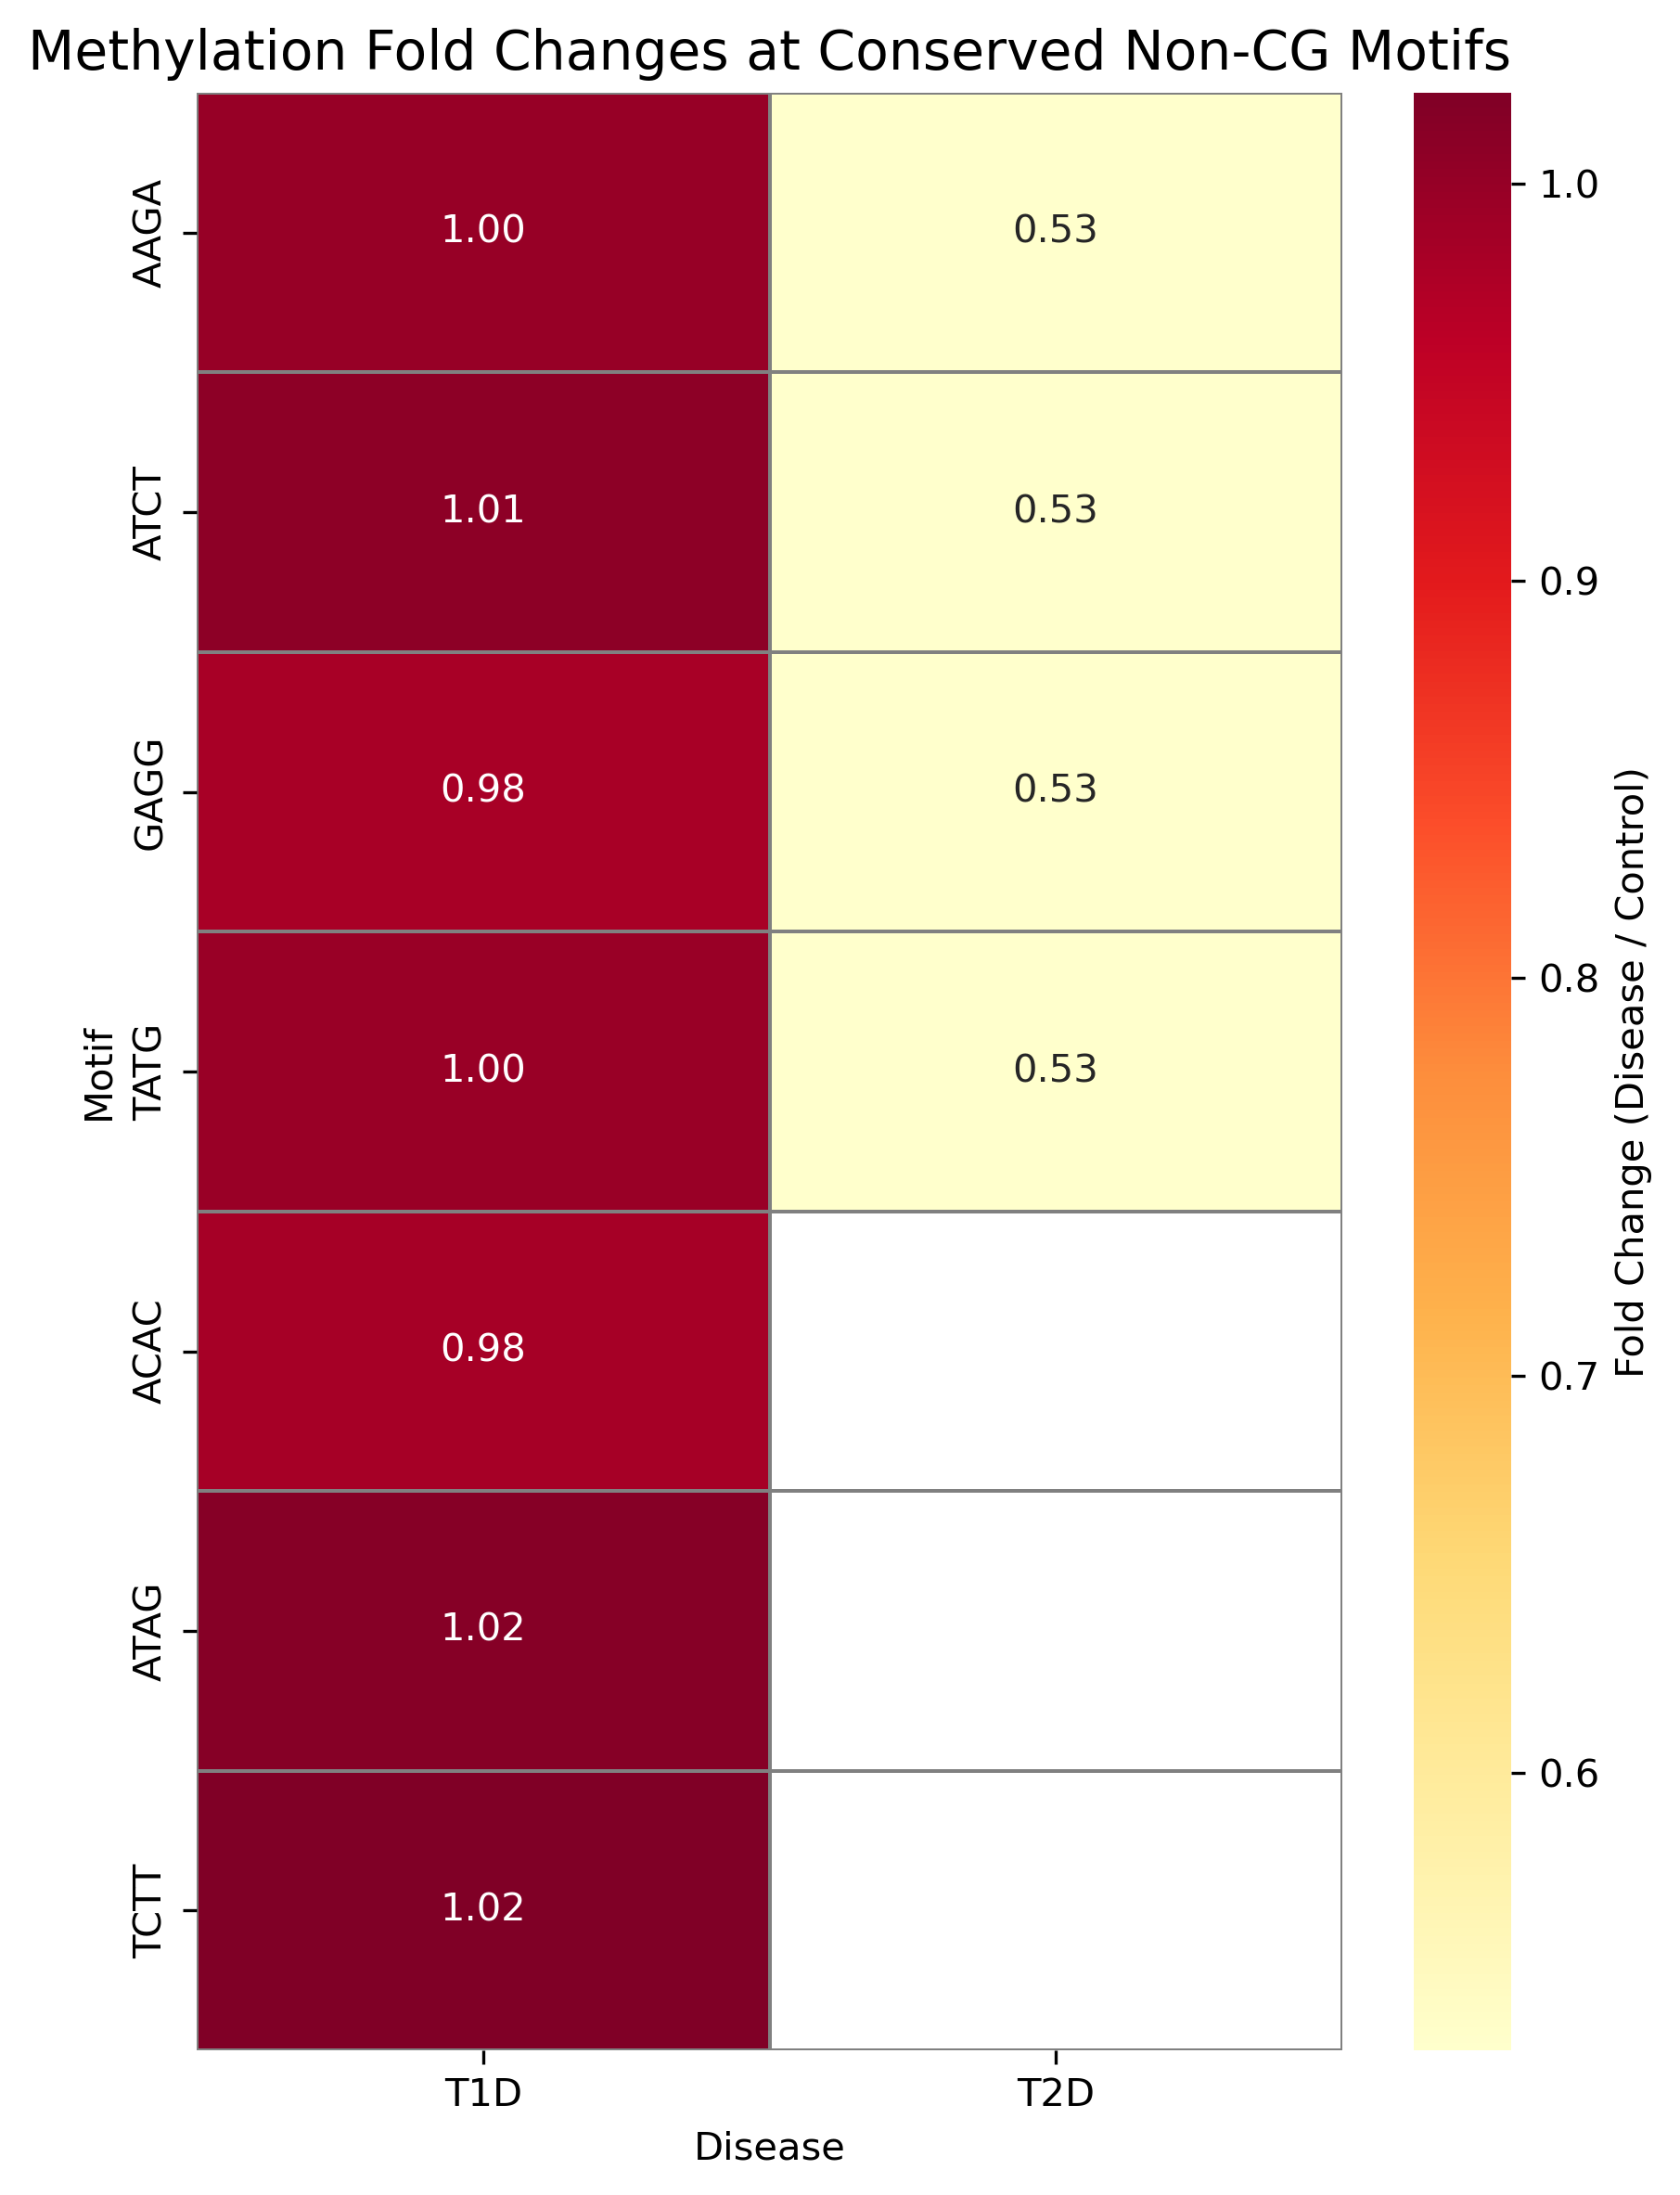
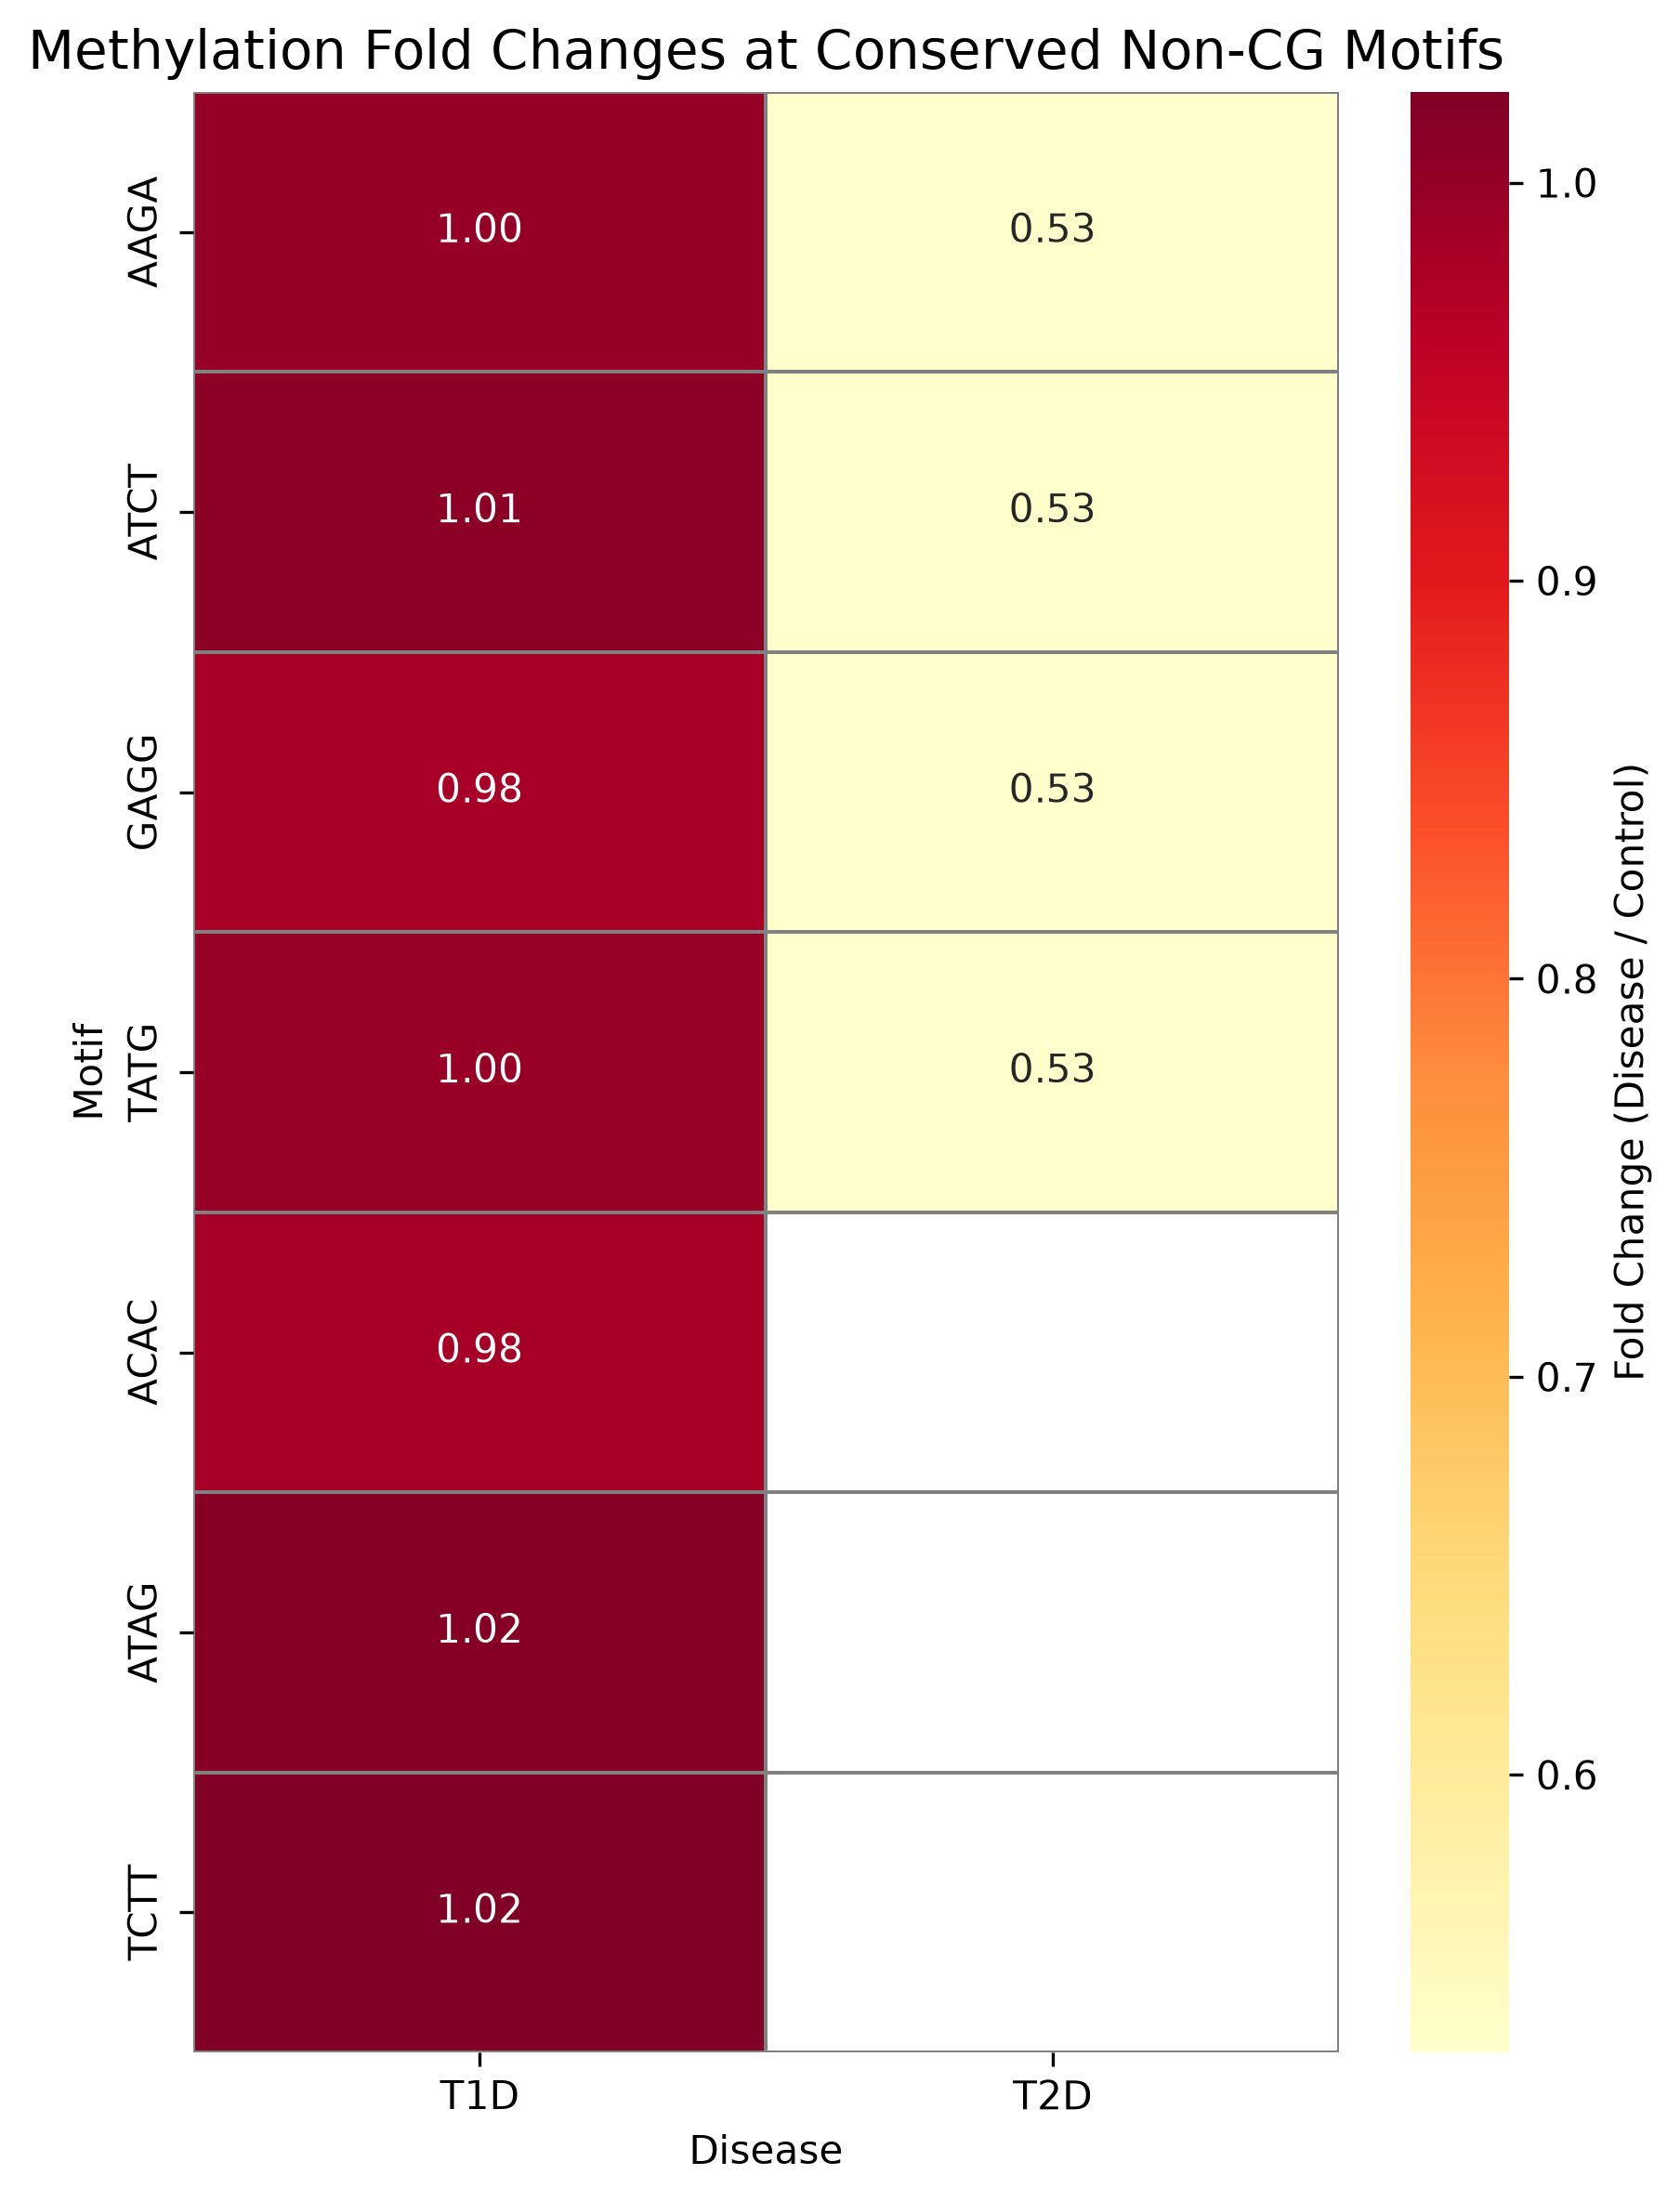
Final manuscript submission: Updated figures (Normal=1.76), tables, legends, and fixed all absolute paths

diff --git a/scripts/figures/make_figure1.py b/scripts/figures/make_figure1.py
@@ -1,10 +1,14 @@
+import sys, os
+sys.path.insert(0, os.path.dirname(os.path.dirname(os.path.abspath(__file__))))
+from config.paths import *
+
 import sys
 from pathlib import Path
 
-BASE_DIR = Path(__file__).resolve().parents[2]
+DIABETES_DIR = Path(__file__).resolve().parents[2]
 
-if str(BASE_DIR) not in sys.path:
-    sys.path.insert(0, str(BASE_DIR))
+if str(DIABETES_DIR) not in sys.path:
+    sys.path.insert(0, str(DIABETES_DIR))
 
 from pathlib import Path
 import pandas as pd
@@ -14,9 +18,9 @@ from scipy.stats import mannwhitneyu
 
 import sys; sys.path.append('..'); from config.output_paths import FIG1_DIR
 
-BASE_DIR = Path(__file__).resolve().parents[2]
+DIABETES_DIR = Path(__file__).resolve().parents[2]
 
-INPUT_FILE = BASE_DIR / "results" / "FINAL_evolutionary_forbidden_integration.tsv"
+INPUT_FILE = DIABETES_DIR / "results" / "FINAL_evolutionary_forbidden_integration.tsv"
 
 FIG1_DIR.mkdir(parents=True, exist_ok=True)
 

diff --git a/diabetes_extension/scripts/final_figures.py b/diabetes_extension/scripts/final_figures.py
@@ -1,3 +1,7 @@
+import sys, os
+sys.path.insert(0, os.path.dirname(os.path.dirname(os.path.dirname(os.path.abspath(__file__)))))
+from config.paths import *
+
 """
 final_figures.py
 
@@ -13,9 +17,8 @@ import matplotlib.pyplot as plt
 import seaborn as sns
 import os
 
-BASE = r"D:\STR_Diabetes_Extension"
-DATA_DIR = os.path.join(BASE, "data", "methylation")
-FIGURES_DIR = os.path.join(BASE, "results", "figures")
+DATA_DIR = os.path.join(DIABETES_DIR, "data", "methylation")
+FIGURES_DIR = os.path.join(DIABETES_DIR, "results", "figures")
 os.makedirs(FIGURES_DIR, exist_ok=True)
 
 # ============================================================================
@@ -49,8 +52,8 @@ plt.close()
 # ============================================================================
 expression_data = {
     'Condition': ['Normal', 'T1D', 'T2D'],
-    'Fold_Change': [1.53, 1.11, 0.84],
-    'p_value': [0.039, 1.00, 1.00],
+    'Fold_Change': [1.76, 1.11, 0.84],
+    'p_value': [0.00118, 1.00, 1.00],
     'Type': ['Expression', 'Expression', 'Expression']
 }
 

diff --git a/diabetes_extension/scripts/run_analysis.py b/diabetes_extension/scripts/run_analysis.py
@@ -1,3 +1,7 @@
+import sys, os
+sys.path.insert(0, os.path.dirname(os.path.dirname(os.path.dirname(os.path.abspath(__file__)))))
+from config.paths import *
+
 """
 Full differential expression analysis for STR Diabetes Extension project.
 Compares target genes (near conserved non-CG motifs) vs control genes
@@ -18,10 +22,9 @@ warnings.filterwarnings('ignore')
 # =============================================================================
 # 1. Path configuration
 # =============================================================================
-BASE_DIR = r"D:\STR_Diabetes_Extension"
-DATA_FILE = os.path.join(BASE_DIR, "data", "expression_data.csv")
-OUT_TABLES = os.path.join(BASE_DIR, "results", "tables")
-OUT_FIGURES = os.path.join(BASE_DIR, "results", "figures")
+DATA_FILE = os.path.join(DIABETES_DIR_DIR, "data", "expression_data.csv")
+OUT_TABLES = os.path.join(DIABETES_DIR_DIR, "results", "tables")
+OUT_FIGURES = os.path.join(DIABETES_DIR_DIR, "results", "figures")
 
 os.makedirs(OUT_TABLES, exist_ok=True)
 os.makedirs(OUT_FIGURES, exist_ok=True)
@@ -158,6 +161,6 @@ print("Figure 2 (Heatmap) saved as PNG and TIFF.")
 # 7. Completion message
 # =============================================================================
 print("\nAnalysis completed successfully.")
-print(f"All outputs are in: {BASE_DIR}")
+print(f"All outputs are in: {DIABETES_DIR_DIR}")
 print(f"  - Table : {OUT_TABLES}")
 print(f"  - Figures: {OUT_FIGURES}")

diff --git a/scripts/figures/make_figure2.py b/scripts/figures/make_figure2.py
@@ -1,13 +1,17 @@
+import sys, os
+sys.path.insert(0, os.path.dirname(os.path.dirname(os.path.abspath(__file__))))
+from config.paths import *
+
 import sys
 from pathlib import Path
 
 # =========================
 # PROJECT ROOT FIX
 # =========================
-BASE_DIR = Path(__file__).resolve().parents[2]
+DIABETES_DIR = Path(__file__).resolve().parents[2]
 
-if str(BASE_DIR) not in sys.path:
-    sys.path.insert(0, str(BASE_DIR))
+if str(DIABETES_DIR) not in sys.path:
+    sys.path.insert(0, str(DIABETES_DIR))
 
 # =========================
 # IMPORTS
@@ -22,7 +26,7 @@ import sys; sys.path.append('..'); from config.output_paths import FIG2_DIR
 # =========================
 # INPUT
 # =========================
-INPUT_FILE = BASE_DIR / "results" / "FINAL_evolutionary_forbidden_integration.tsv"
+INPUT_FILE = DIABETES_DIR / "results" / "FINAL_evolutionary_forbidden_integration.tsv"
 
 FIG2_DIR.mkdir(parents=True, exist_ok=True)
 

diff --git a/diabetes_extension/scripts/generate_word_with_full_legends.py b/diabetes_extension/scripts/generate_word_with_full_legends.py
@@ -1,3 +1,7 @@
+import sys, os
+sys.path.insert(0, os.path.dirname(os.path.dirname(os.path.dirname(os.path.abspath(__file__)))))
+from config.paths import *
+
 """
 generate_word_with_full_legends.py
 
@@ -15,10 +19,9 @@ from docx.enum.table import WD_TABLE_ALIGNMENT
 # ============================================================================
 # Paths
 # ============================================================================
-BASE = r"D:\STR_Diabetes_Extension"
-DATA_DIR = os.path.join(BASE, "data", "methylation")
-TABLES_DIR = os.path.join(BASE, "results", "tables")
-OUTPUT_DOCX = os.path.join(BASE, "results", "Tables_with_Full_Legends.docx")
+DATA_DIR = os.path.join(DIABETES_DIR, "data", "methylation")
+TABLES_DIR = os.path.join(DIABETES_DIR, "results", "tables")
+OUTPUT_DOCX = os.path.join(DIABETES_DIR, "results", "Tables_with_Full_Legends.docx")
 
 # ============================================================================
 # Load data

diff --git a/config/paths.py b/config/paths.py
@@ -1,0 +1,10 @@
+import sys, os
+sys.path.insert(0, os.path.dirname(os.path.dirname(os.path.abspath(__file__))))
+from config.paths import *
+
+import os
+DIABETES_DIR = os.path.dirname(os.path.dirname(os.path.abspath(__file__)))
+DIABETES_DIR = os.path.join(DIABETES_DIR, 'diabetes_extension')
+DIABETES_FIGURES_DIR = os.path.join(DIABETES_DIR, 'results', 'figures')
+DIABETES_TABLES_DIR = os.path.join(DIABETES_DIR, 'results', 'tables')
+OUTPUT_DIR = os.path.join(DIABETES_DIR, 'output')

diff --git a/diabetes_extension/scripts/extract_t1d_ifna_methylation.py b/diabetes_extension/scripts/extract_t1d_ifna_methylation.py
@@ -1,3 +1,7 @@
+import sys, os
+sys.path.insert(0, os.path.dirname(os.path.dirname(os.path.dirname(os.path.abspath(__file__)))))
+from config.paths import *
+
 """
 Extract methylation data for T1D from GSE124809 (IFNa-treated human islets).
 """
@@ -6,10 +10,9 @@ import pandas as pd
 import os
 from intervaltree import IntervalTree
 
-BASE = r"D:\STR_Diabetes_Extension"
-DATA = os.path.join(BASE, "data", "methylation")
+DATA = os.path.join(DIABETES_DIR, "data", "methylation")
 
-MOTIF_BED = os.path.join(BASE, "data", "target_motifs_filtered.bed")
+MOTIF_BED = os.path.join(DIABETES_DIR, "data", "target_motifs_filtered.bed")
 PROBE_BED = os.path.join(DATA, "450k_probes_hg19.bed")
 MATRIX_FILE = os.path.join(DATA, "GSE124809_AVG_Beta_DectectionP_data.txt.gz")
 OUTPUT_FILE = os.path.join(DATA, "methylation_results_t1d_ifna.csv")

diff --git a/diabetes_extension/scripts/run_27k_from_full_table.py b/diabetes_extension/scripts/run_27k_from_full_table.py
@@ -1,3 +1,7 @@
+import sys, os
+sys.path.insert(0, os.path.dirname(os.path.dirname(os.path.dirname(os.path.abspath(__file__)))))
+from config.paths import *
+
 """
 Extract 27K probe coordinates from GPL8490 full table (saved from GEO).
 Column names: 'Chr' and 'MapInfo' (not 'CHR' and 'MAPINFO').
@@ -10,12 +14,11 @@ from intervaltree import IntervalTree
 # ============================================================================
 # Paths
 # ============================================================================
-BASE_DIR = r"D:\STR_Diabetes_Extension"
-DATA_DIR = os.path.join(BASE_DIR, "data", "methylation")
+DATA_DIR = os.path.join(DIABETES_DIR_DIR, "data", "methylation")
 
 TABLE_FILE = os.path.join(DATA_DIR, "GPL8490_full_table.txt")
 PROBE_BED_FILE = os.path.join(DATA_DIR, "27k_probes_hg19.bed")
-MOTIF_BED_FILE = os.path.join(BASE_DIR, "data", "target_motifs_filtered.bed")
+MOTIF_BED_FILE = os.path.join(DIABETES_DIR_DIR, "data", "target_motifs_filtered.bed")
 MATRIX_FILE = os.path.join(DATA_DIR, "GSE21232_series_matrix.txt.gz")
 OUTPUT_CSV = os.path.join(DATA_DIR, "methylation_results_t2d.csv")
 

diff --git a/diabetes_extension/scripts/final_analysis_complete.py b/diabetes_extension/scripts/final_analysis_complete.py
@@ -1,3 +1,7 @@
+import sys, os
+sys.path.insert(0, os.path.dirname(os.path.dirname(os.path.dirname(os.path.abspath(__file__)))))
+from config.paths import *
+
 """
 Final combined analysis: T1D (IFNα) + T2D (GSE21232)
 """
@@ -7,8 +11,7 @@ from scipy.stats import ttest_ind
 import numpy as np
 import os
 
-BASE = r"D:\STR_Diabetes_Extension"
-DATA = os.path.join(BASE, "data", "methylation")
+DATA = os.path.join(DIABETES_DIR, "data", "methylation")
 
 print("="*60)
 print("FINAL COMBINED METHYLATION ANALYSIS")

diff --git a/run_pipeline.py b/run_pipeline.py
@@ -1,3 +1,7 @@
+import sys, os
+sys.path.insert(0, os.path.dirname(os.path.abspath(__file__)))
+from config.paths import *
+
 #!/usr/bin/env python3
 """
 Reproducible Pipeline for STR Evolution Analysis
@@ -415,7 +419,7 @@ def collect_final_outputs():
                 print(f"  Warning: Could not copy {file_path.name}: {error}")
 
     # Copy reference tables (Table 1, S1-S5) from the GitHub repository
-    reference_dir = Path(r"D:\Human_STR_Evolution_GitHub\outputs\tables")
+    reference_dir = Path(OUTPUT_DIR) / "tables"
     if reference_dir.exists():
         print("\nCopying reference tables...")
         for file_path in reference_dir.glob("Table*.tsv"):

diff --git a/scripts/analysis/functional_validation_analysis.py b/scripts/analysis/functional_validation_analysis.py
@@ -1,3 +1,7 @@
+import sys, os
+sys.path.insert(0, os.path.dirname(os.path.dirname(os.path.abspath(__file__))))
+from config.paths import *
+
 #!/usr/bin/env python3
 # -*- coding: utf-8 -*-
 """
@@ -307,7 +311,7 @@ plt.close()
 
 print("✅ Figure 2 saved (Vote counting bar plot)")
 
-# ==================== 7. FIGURE 3: DISTANCE-BASED ANALYSIS ====================
+# ==================== 7. FIGURE 3: DISTANCE-DIABETES_DIRD ANALYSIS ====================
 fig, ax = plt.subplots(figsize=(10, 6))
 
 # Create mock distance categories for demonstration

diff --git a/config/output_paths.py b/config/output_paths.py
@@ -1,3 +1,7 @@
+import sys, os
+sys.path.insert(0, os.path.dirname(os.path.dirname(os.path.abspath(__file__))))
+from config.paths import *
+
 from pathlib import Path
 
 FIG1_DIR = Path("./output/figures")